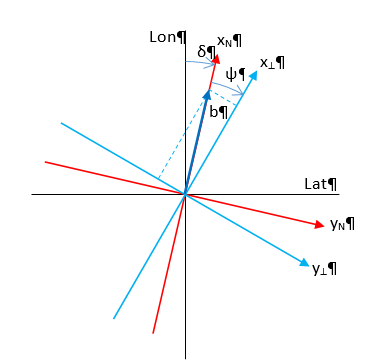
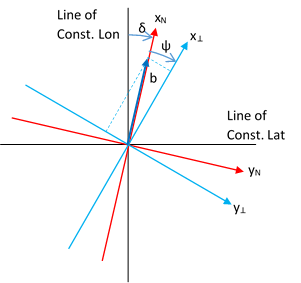
update to coordinate frame drawing

diff --git a/algorithms/Sensors.rst b/algorithms/Sensors.rst
@@ -78,7 +78,7 @@ Items, such as misalignment, cross-coupling, etc. are ignored in this formulatio
 accounted for during system calibration.
 
 
-Additionally, sensor bias can be broken down further.  In this paper, bias is modelled as a
+Additionally, sensor bias can be broken down further.  In this paper, bias is modeled as a
 constant offset plus random drift:
 
 .. math::
@@ -87,10 +87,10 @@ constant offset plus random drift:
 
 
 The magnetic field vector, |bVec|, may be corrupted by hard and soft-iron sources present in the
-system in which the part is installed.  These effects (hard and soft-iron values) can be estimated
-by performing a “magnetic-alignment”\ [#magAlign]_ procedure once installed in the end-user’s
-system.  The equations relating the hard and soft-iron effects\ [#ironEffects]_ on the measured
-magnetic field is:
+system in which the part is installed.  Hard and soft-iron effects can be estimated by performing
+a “magnetic-alignment”\ [#magAlign]_ procedure once installed in the end-user’s system.  The
+equations relating the hard and soft-iron effects\ [#ironEffects]_ on the measured magnetic field
+is:
 
 .. math::
 

diff --git a/algorithms/MeasurementModel.rst b/algorithms/MeasurementModel.rst
@@ -274,14 +274,14 @@ CA, the magnetic field estimates are provided in Table 4:
     **Table 4: Magnetic Field Components based on WMM**
 
 
-*Figure 4* illustrates the relationship between the Lat/Lon-frame, the NED-frame, and the ⊥-frame.
-Declination is specified with :math:`\delta` and heading is specified with :math:`\psi`.
+*Figure 4* illustrates the relationship between the Lines of constant Lat/Lon, the NED-frame, and
+the ⊥-frame.  Declination is specified with :math:`\delta` and heading is specified with
+:math:`\psi`.
 
 .. _fig-magfield-n-and-b-frames:
 
 .. figure:: ./media/MagField_N_and_B_Frames.PNG
     :alt: MagFieldNandBFrames
-    :width: 4.0in
     :align: center
     
     **Figure 4: Relationship of Magnetic-Field to N and B-Frames**

diff --git a/algorithms/MeasurementVector.rst b/algorithms/MeasurementVector.rst
@@ -225,14 +225,14 @@ CA, the magnetic field estimates are provided in Table 4:
     **Table 4: Magnetic Field Components based on WMM**
 
 
-*Figure 4* illustrates the relationship between the Lat/Lon-frame, the NED-frame, and the ⊥-frame.
-Declination is specified with :math:`\delta` and heading is specified with :math:`\psi`.
+*Figure 4* illustrates the relationship between the Lines of constant Lat/Lon, the NED-frame, and
+the ⊥-frame.  Declination is specified with :math:`\delta` and heading is specified with
+:math:`\psi`.
 
 .. _fig-magfield-n-and-b-frames:
 
 .. figure:: ./media/MagField_N_and_B_Frames.PNG
     :alt: MagFieldNandBFrames
-    :width: 4.0in
     :align: center
     
     **Figure 4: Relationship of Magnetic-Field to N and B-Frames**

diff --git a/algorithms/Innovation.rst b/algorithms/Innovation.rst
@@ -22,6 +22,7 @@ In this case either the states need to be converted to match the measurements or
 
     
     
+descriptions
 
 
 Innovation (Measurement Error):
